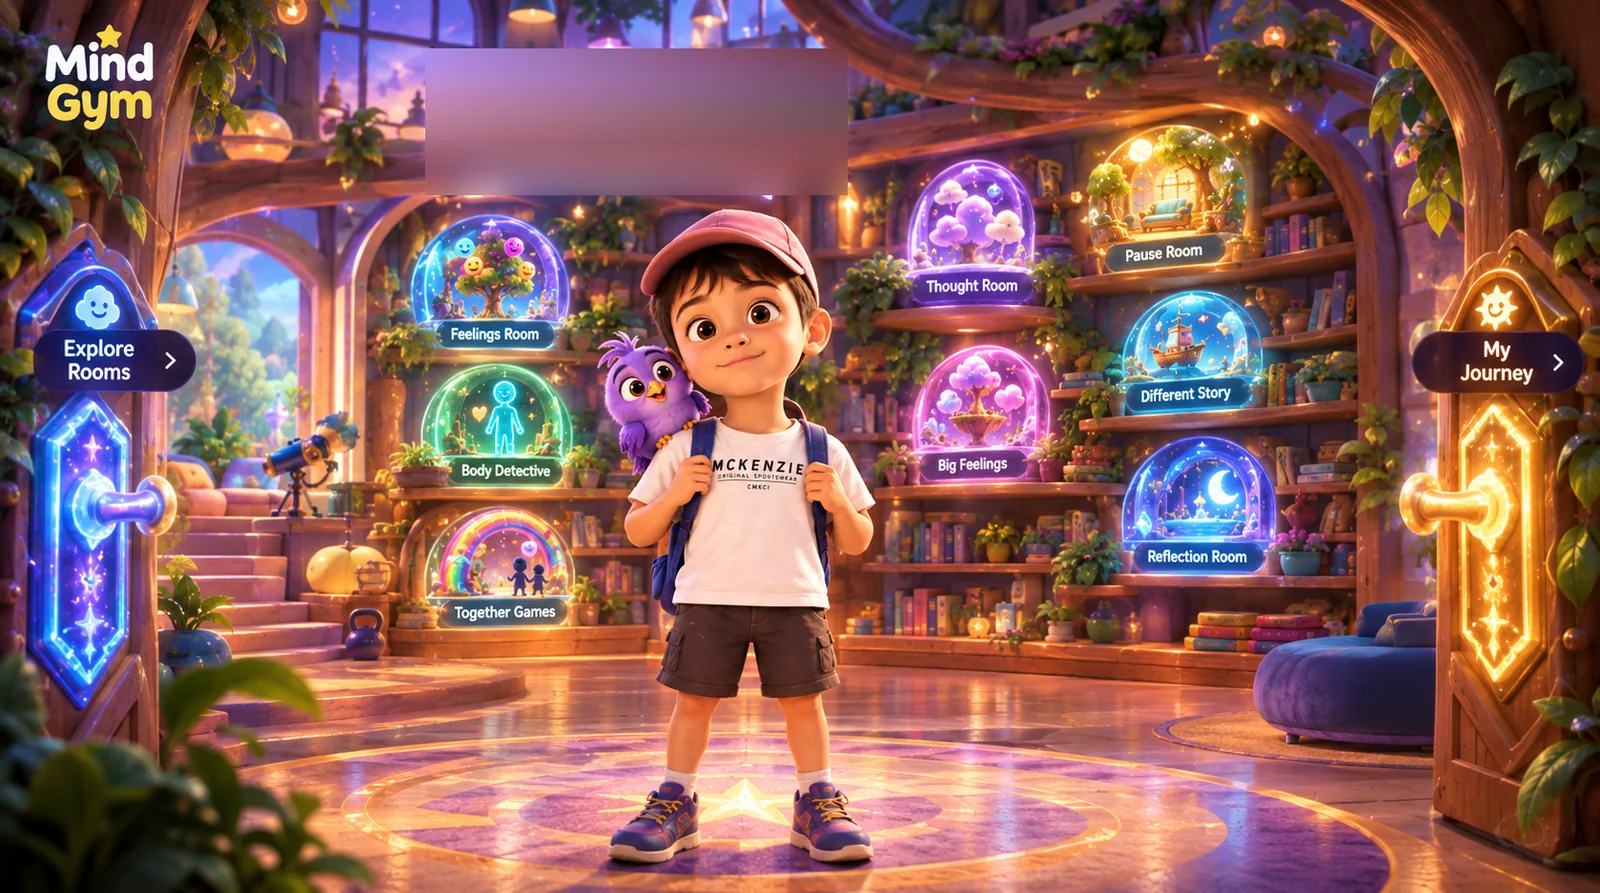
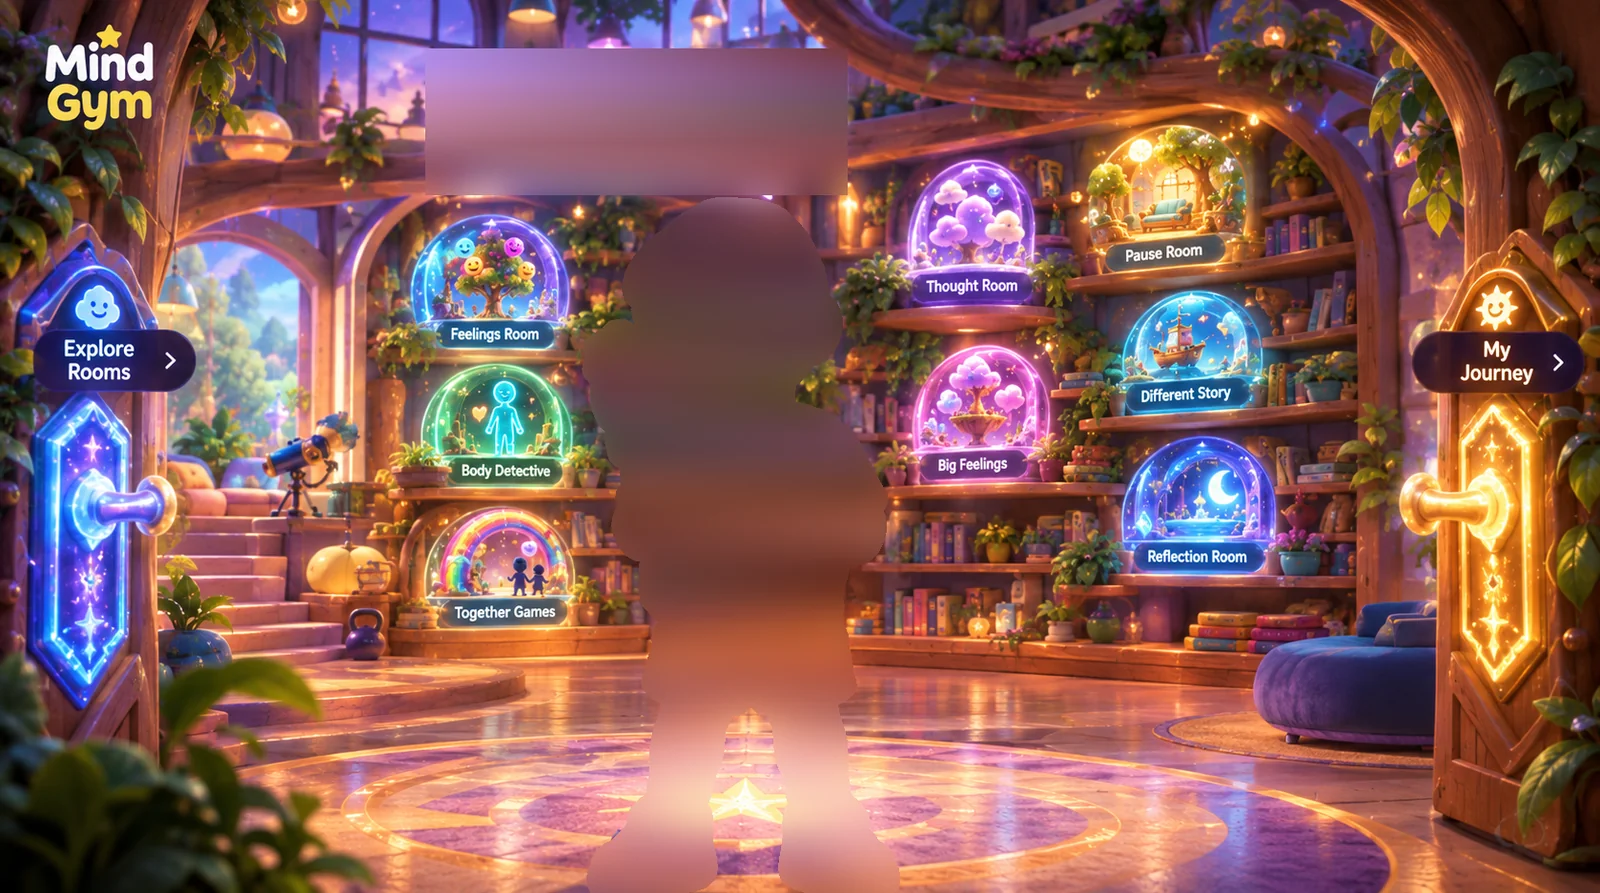
Let the boy move, and give the phone its doors back
THE PAINTED BOY IS ERASED, which is the whole unlock. The live sprite has sat
exactly on top of him for a while, and could only ever breathe — a scale about
the feet is the one transform that uncovers nothing, because the overlay only
grows. Anything else slid the sprite off the boy printed underneath and a
second child's elbow appeared from behind the first.

Erasing him as a rectangle was the obvious thing and it is wrong: the sprite's
transparent margins are wider than the boy, so a rectangular patch smears a
band of shelving a fifth of the room wide and shows on both sides of him
forever. The mask is the SPRITE'S OWN ALPHA instead — laid where the overlay
sits, grown by fourteen pixels — so it is exactly the shape of the thing being
hidden and guaranteed to stay hidden by the thing hiding it. What a step
uncovers is a soft boy-shaped patch of blurred room, which reads as depth of
field. He now shifts his weight foot to foot, with the dip and the lean that
go with it, on ui/scenery's sway.

THE PHONE HAD NO DOORS. Below md the hero is cropped to the middle of the
room, both painted doors are off the sides of it, and the two ways on were a
pair of pills under a list of eight rooms — outranked by every one of them. So
they hang on the screen's own walls now, as the same brass fitting every room
in the gym uses. The pills are gone.

That needed a real media query rather than a `md:hidden` wrapper: a DoorHandle
[…]

Changed region(s): [[0.3438, 0.2116, 0.5625, 1.0]]

diff --git a/src/features/practise/kids-v1/best/PaintedHub.tsx b/src/features/practise/kids-v1/best/PaintedHub.tsx
@@ -227,11 +227,24 @@ export const HUB_BOXES = {
  * the same drawing. Re-render the room and run that search again rather than
  * nudging these by hand.
  *
- * WHY HE ONLY BREATHES. Any rotation or sideways drift uncovers the painted
- * boy underneath, and a second child's elbow appearing from behind the first
- * is worse than stillness. A scale about the feet cannot: the overlay only
- * ever grows, so what is underneath stays underneath. It reads as breathing,
- * which is what standing still actually looks like.
+ * AND THE PAINTED BOY IS GONE NOW, which is what lets him move at all.
+ *
+ * For a while the overlay could only BREATHE — a scale about the feet, which
+ * is the one transform that never uncovers anything, because the overlay only
+ * ever grows. Anything else slid the sprite off the boy printed underneath and
+ * a second child's elbow appeared from behind the first.
+ *
+ * So the painted one was erased. Not as a rectangle — that smears a band of
+ * shelving twenty percent of the room wide, and the sprite's transparent
+ * margins are wider than the boy, so the smear shows on both sides of him
+ * forever. The mask is the SPRITE'S OWN ALPHA, laid where the overlay sits and
+ * grown by a few pixels: exactly the shape of the thing being hidden, and
+ * guaranteed to stay hidden by the thing hiding it. Underneath is a soft
+ * boy-shaped patch of blurred room, so the few pixels a step uncovers read as
+ * depth of field rather than as a hole.
+ *
+ * Re-render the painting and that erase has to be re-run, or he will be
+ * standing next to himself again.
  */
 const BOY_FIT = {
   /** The sprite element itself, sized and placed to land on the painted boy. */
@@ -519,8 +532,23 @@ export function HubBoy({
           width: `${BOY_FIT.width}%`,
           transformOrigin: BOY_FIT.footOrigin,
         }}
-        animate={m.quiet ? { scale: 1 } : { scale: [1, 1.028, 1] }}
-        transition={m.quiet ? { duration: 0.4 } : { repeat: Infinity, duration: 3.6, ease: 'easeInOut' }}
+        /*
+          A WEIGHT SHIFT, NOT A PULSE. The old idle was a 2.8% scale and
+          nothing else, which is what standing still looks like — and standing
+          still is what a child reads as a picture. This is the sway from
+          ui/scenery's gaits: weight going foot to foot, the small dip that
+          goes with it, and the lean that follows the dip. Pinned at the feet
+          so the floor never moves under him.
+        */
+        animate={m.quiet ? { scale: 1, x: 0, y: 0, rotate: 0 } : {
+          x: ['0%', '1.6%', '0%', '-1.6%', '0%'],
+          y: ['0%', '-1.1%', '0%', '-1.1%', '0%'],
+          rotate: [0, 1.1, 0, -1.1, 0],
+          scale: [1, 1.012, 1, 1.012, 1],
+        }}
+        transition={m.quiet
+          ? { duration: 0.4 }
+          : { repeat: Infinity, duration: 6.2, ease: 'easeInOut', times: [0, 0.25, 0.5, 0.75, 1] }}
       />
 
       <motion.button
@@ -561,8 +589,21 @@ export function HubBoy({
               transition={m.quiet
                 ? { duration: 0.4 }
                 : { y: { repeat: Infinity, duration: 2.1, ease: 'easeInOut' }, opacity: { duration: 0.4 } }}
-              className={`pointer-events-none absolute left-1/2 -translate-x-1/2 whitespace-nowrap rounded-full px-3 py-1.5 text-[11.5px] font-extrabold ${
-                tipBelow ? 'top-full mt-1' : 'bottom-full mb-1'
+              /*
+                BESIDE HIM, NOT OVER HIM. Above his head is where the greeting
+                bubble already is — the label landed against the underside of
+                it and read as part of the bubble, which is the one thing on
+                this screen it must not be mistaken for. At his shoulder it is
+                unambiguously pointing at the boy.
+
+                The phone hero keeps it under his feet: there the painting is a
+                couple of hundred pixels tall and anything beside him is off
+                the crop.
+              */
+              className={`pointer-events-none absolute whitespace-nowrap rounded-full px-3 py-1.5 text-[11.5px] font-extrabold ${
+                tipBelow
+                  ? 'left-1/2 top-full mt-1 -translate-x-1/2'
+                  : 'left-full top-[16%] ml-1'
               }`}
               style={{
                 background: '#0B0818',
@@ -702,7 +743,6 @@ export function PhoneHub({
   onTapBoy: () => void;
 }) {
   const m = useMotion();
-  const knobs = spots.filter((s) => KNOB_IDS.includes(s.id));
   const rooms = spots.filter((s) => !KNOB_IDS.includes(s.id));
 
   return (
@@ -798,27 +838,21 @@ export function PhoneHub({
           ))}
         </div>
 
-        {/* The two doors, which on a wide screen are brass knobs on the
-            painted doors and here are simply the two big ways out of this
-            page. Full-width rows rather than a pair of half-width ones:
-            these are the only things on the hub that lead somewhere other
-            than a single room, and they should not look like the grid. */}
-        {knobs.map((k) => (
-          <button
-            key={k.id}
-            onClick={k.onClick}
-            className="rounded-full px-4 py-3.5 text-[14.5px] font-extrabold"
-            style={{
-              minHeight: m.target,
-              background: `${k.accent}1F`,
-              border: `1.5px solid ${k.accent}`,
-              color: CHROME.text,
-              boxShadow: `0 0 24px -10px ${k.accent}`,
-            }}
-          >
-            {k.label}
-          </button>
-        ))}
+        {/*
+          THE TWO DOORS ARE NOT HERE ANY MORE, and that is the point.
+
+          They used to be a pair of full-width pills at the foot of this list,
+          which is what a phone gets when nobody thinks about the phone: the
+          two most important things on the hub, drawn as the two least
+          door-like objects on the page, below eight rooms that outrank them
+          visually. A child scrolling this list met the rooms first and the
+          ways ON last.
+
+          They are brass fittings pinned to the left and right walls now — the
+          same ones every room in the gym uses, at the same height, doing the
+          same thing. See BestApp, which hangs them outside this column so
+          they sit against the screen edges rather than inside the padding.
+        */}
       </div>
     </div>
   );

diff --git a/src/features/practise/kids-v1/best/BestApp.tsx b/src/features/practise/kids-v1/best/BestApp.tsx
@@ -13,6 +13,7 @@ import { GrownUp } from '../GrownUp';
 import { DeepDive } from './DeepDive';
 import { HubBoy, HubGreeting, HubHotspot, HubStage, HUB_BOXES, PhoneHub, type Hotspot, type HotspotKey } from './PaintedHub';
 import { FloatingJar } from './FloatingJar';
+import { DoorHandle } from '../ui/DoorHandle';
 import { HelpChirpy } from './HelpChirpy';
 import { DifferentStoryRoom } from './DifferentStoryRoom';
 import { TruthLabRoom } from './TruthLabRoom';
@@ -432,6 +433,7 @@ function RoomMap({
    */
   /** The blue door's room sheet — every room, including the unshelved ones. */
   const [sheet, setSheet] = useState(false);
+  const phone = useIsPhoneWidth();
 
 
   /**
@@ -602,13 +604,20 @@ function RoomMap({
       the right, and now that is where the handle goes.
 
       RESTORED after a brief removal — see PaintedHub's note on HUB_BOXES for
-      the crop edge-case this reintroduces on narrow-aspect windows, and
-      HubAside for the pills at the foot of the page, which stay as a second
-      way to the same two places (load-bearing on the phone hero, which has no
-      doors in frame at all).
+      the crop edge-case this reintroduces on narrow-aspect windows. Below md
+      the painted doors are off the sides of the cropped hero, so the same two
+      places hang on the screen's own walls as ordinary DoorHandles instead;
+      the pills that used to do that job are gone.
+
+      THE BRASS DOES NOT READ OUT THE SIGN ABOVE IT. Both knobs used to be
+      lettered with the words already painted on the door they hang on —
+      "Explore Rooms" over "Explore Rooms" — so the one moment the app had a
+      child's attention on a door was spent repeating what the door said. The
+      tooltip says what is BEHIND it instead, which is the thing a painted
+      sign cannot tell them.
     */
-    knob('knobExplore', 'Explore Rooms', '#6FA8F0', () => { sound.play('roomCard'); setSheet(true); }, 900),
-    knob('knobJourney', 'My Journey', '#FFC65C', () => { sound.play('arcadeBlip'); onStartJourney(); }, 3900),
+    knob('knobExplore', 'Pick any room', '#6FA8F0', () => { sound.play('roomCard'); setSheet(true); }, 900),
+    knob('knobJourney', 'Tonight’s journey', '#FFC65C', () => { sound.play('arcadeBlip'); onStartJourney(); }, 3900),
   ];
 
   return (
@@ -642,6 +651,36 @@ function RoomMap({
           waiting={!!moment && !asked}
           onTapBoy={askChirpy}
         />
+
+        {/*
+          THE TWO DOORS, AS DOORS, ON THE ONE SCREEN THAT HAD NONE.
+
+          Above md the painted doors are in frame and carry brass knobs. Below
+          it the hero is cropped to the middle of the room, both doors are off
+          the sides of it, and the two ways on had become a pair of pills at
+          the bottom of a list of eight rooms — outranked by every one of them.
+
+          So they hang on the screen's own left and right walls instead, using
+          the same fitting every room in the gym uses. A child who has learned
+          that brass means "a way through" in the Kindness Garden now meets the
+          same brass, in the same place, on the hub.
+
+          Stacked at different heights because one wall carries one door: 34vh
+          and 34vh on opposite sides never collide, and both sit clear of the
+          hero above and the list below.
+        */}
+        {phone && spots
+          .filter((sp) => sp.id === 'knobExplore' || sp.id === 'knobJourney')
+          .map((sp) => (
+            <DoorHandle
+              key={sp.id}
+              side={sp.id === 'knobExplore' ? 'left' : 'right'}
+              label={sp.label}
+              accent={sp.accent}
+              bottomVh={34}
+              onClick={sp.onClick}
+            />
+          ))}
       </div>
 
       {/* Every firefly the child has taken to the Observatory and let go of,
@@ -795,6 +834,32 @@ function RoomMap({
  * What's added is the only new information a virtue room has — whether it was
  * ticked today, and what has been earned in it.
  */
+/**
+ * Whether this is a phone-shaped window, watched rather than sampled once.
+ *
+ * The two hub DoorHandles need this because a DoorHandle PORTALS ITSELF TO
+ * document.body — it hangs on the screen's own wall, not inside whatever laid
+ * it out — so wrapping them in a `md:hidden` div hides nothing at all: the
+ * wrapper is hidden and the portal carries on rendering at the viewport edge.
+ * Below md they are the only doors on the page; above it they would be a
+ * second pair of handles floating over the painted ones.
+ *
+ * Matches Tailwind's `md` so the two halves of the hub can never disagree
+ * about which one is on screen.
+ */
+function useIsPhoneWidth() {
+  const [narrow, setNarrow] = useState(
+    () => typeof window !== 'undefined' && window.matchMedia('(max-width: 767.98px)').matches,
+  );
+  useEffect(() => {
+    const mq = window.matchMedia('(max-width: 767.98px)');
+    const on = () => setNarrow(mq.matches);
+    mq.addEventListener('change', on);
+    return () => mq.removeEventListener('change', on);
+  }, []);
+  return narrow;
+}
+
 /* ── What the blue door opens ────────────────────────────────────────── */
 
 /**

diff --git a/src/features/practise/kids-v1/ui/DoorHandle.tsx b/src/features/practise/kids-v1/ui/DoorHandle.tsx
@@ -66,10 +66,13 @@ const SEAM = '/ui/handles/seam.webp';
  * and then the room complained it could not be seen. A door handle is
  * something a child aims a whole hand at.
  *
- * Two sizes rather than one: a phone has no room for a 150px fitting beside
- * a column of text, and a desktop has nothing but room.
+ * Two sizes rather than one: a phone has no room for a wide fitting beside a
+ * column of text, and a desktop has nothing but room. Keep this in step with
+ * the `sm:` width on the plate below — it is the `sizes` hint that decides
+ * which file the browser fetches, and a stale one quietly ships the small
+ * plate to a screen drawing it at 210px.
  */
-const PLATE_W_WIDE = 152;
+const PLATE_W_WIDE = 210;
 
 /** The lever swings this far when pressed. Small: it reads as weight, not spin. */
 const PRESS_DEG = 8;
@@ -298,13 +301,17 @@ export function DoorHandle({
               THE PHONE SIZE IS THE CONSTRAINED ONE. A room's content column
               on a 420px screen runs from about 74px to about 346px, and this
               fitting is pinned to the left edge at the same height as some of
-              it. 92px wide with 10 pulled off the edge leaves 82px on screen,
-              which clears the column, shows the whole star, and is still half
-              again the 66px the old dark plate managed. Wider screens have
-              the column centred with room to spare on both sides, so there
-              the fitting can be the size it wants to be.
+              it. That column is what caps the phone width — go much past this
+              and the brass starts eating taps meant for the answers.
+
+              BOTH SIZES WENT UP, because "can a child find it" beat "is it
+              tidy". At 92/152 the fitting read as a gold squiggle in the
+              corner of a dark room: present, but not obviously a thing you
+              take hold of, and the one control every screen depends on. The
+              hub gets away with smaller because its doors are painted into
+              the art at full size; a room has only this.
             */
-            className="h-auto w-[92px] max-w-none select-none sm:w-[152px]"
+            className="h-auto w-[124px] max-w-none select-none sm:w-[210px]"
             animate={{ rotate: pressed ? PRESS_DEG : 0 }}
             transition={{ type: 'spring', stiffness: 240, damping: 15 }}
             style={{
